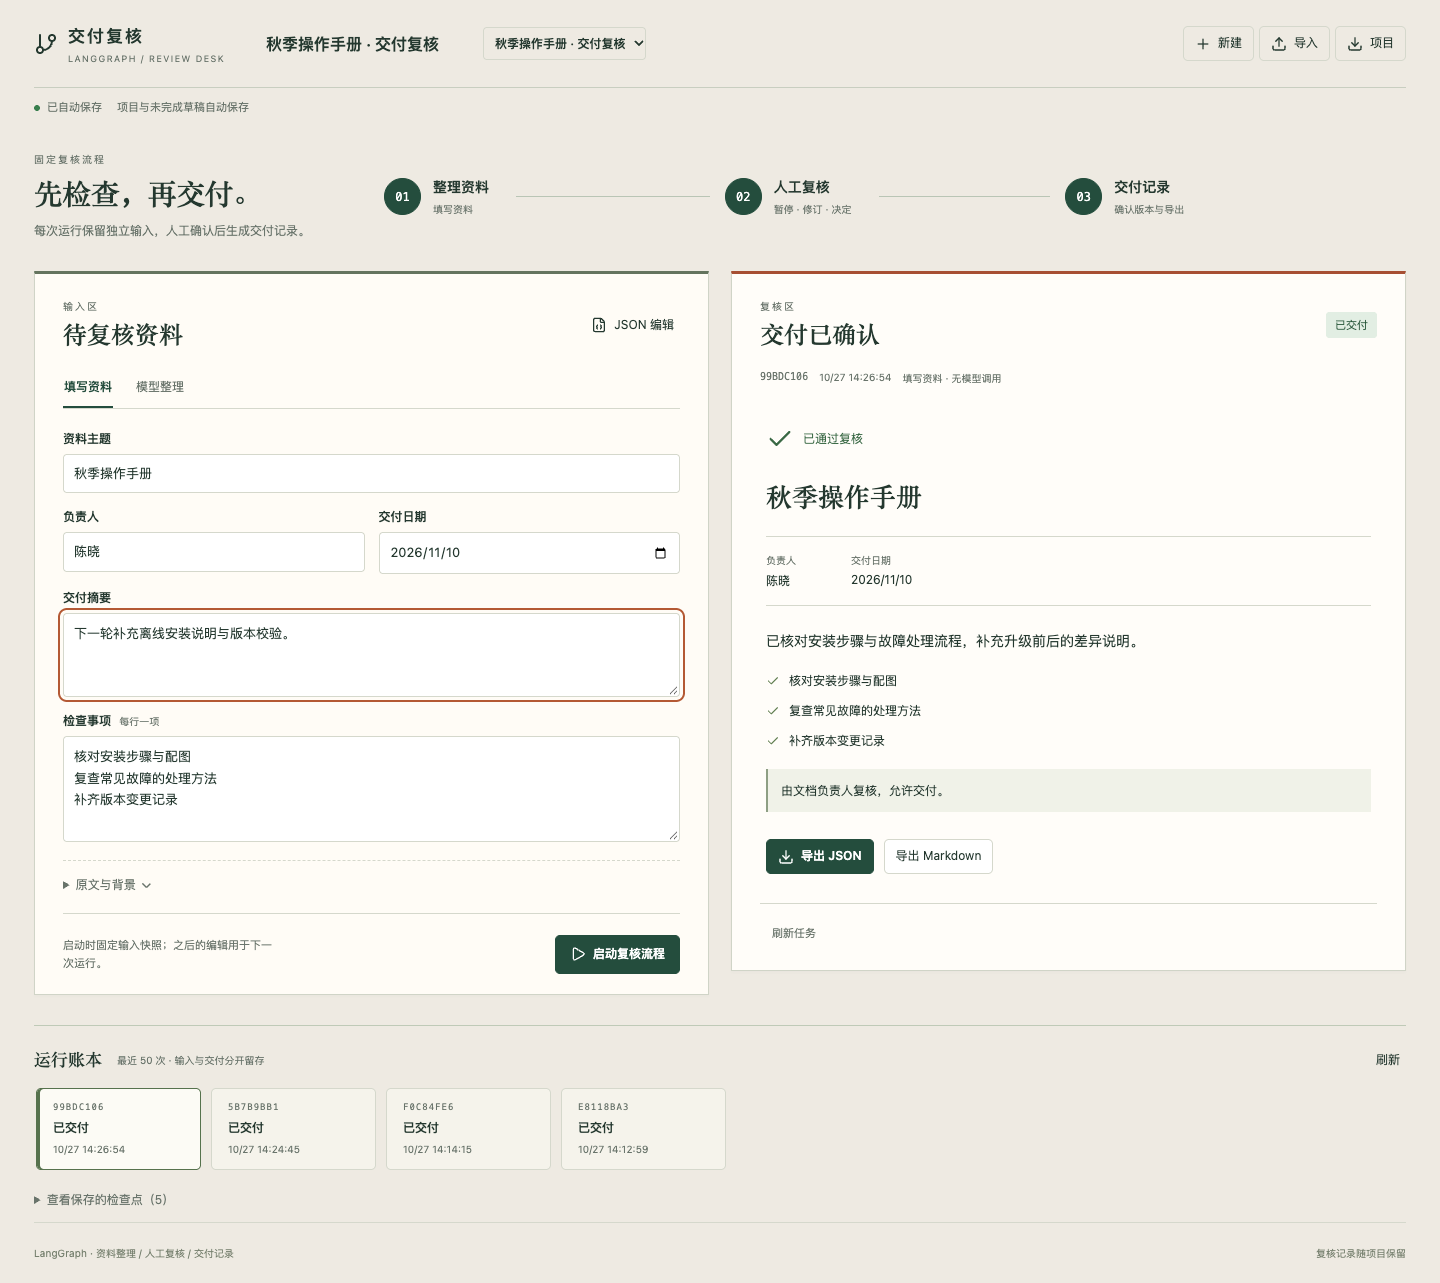
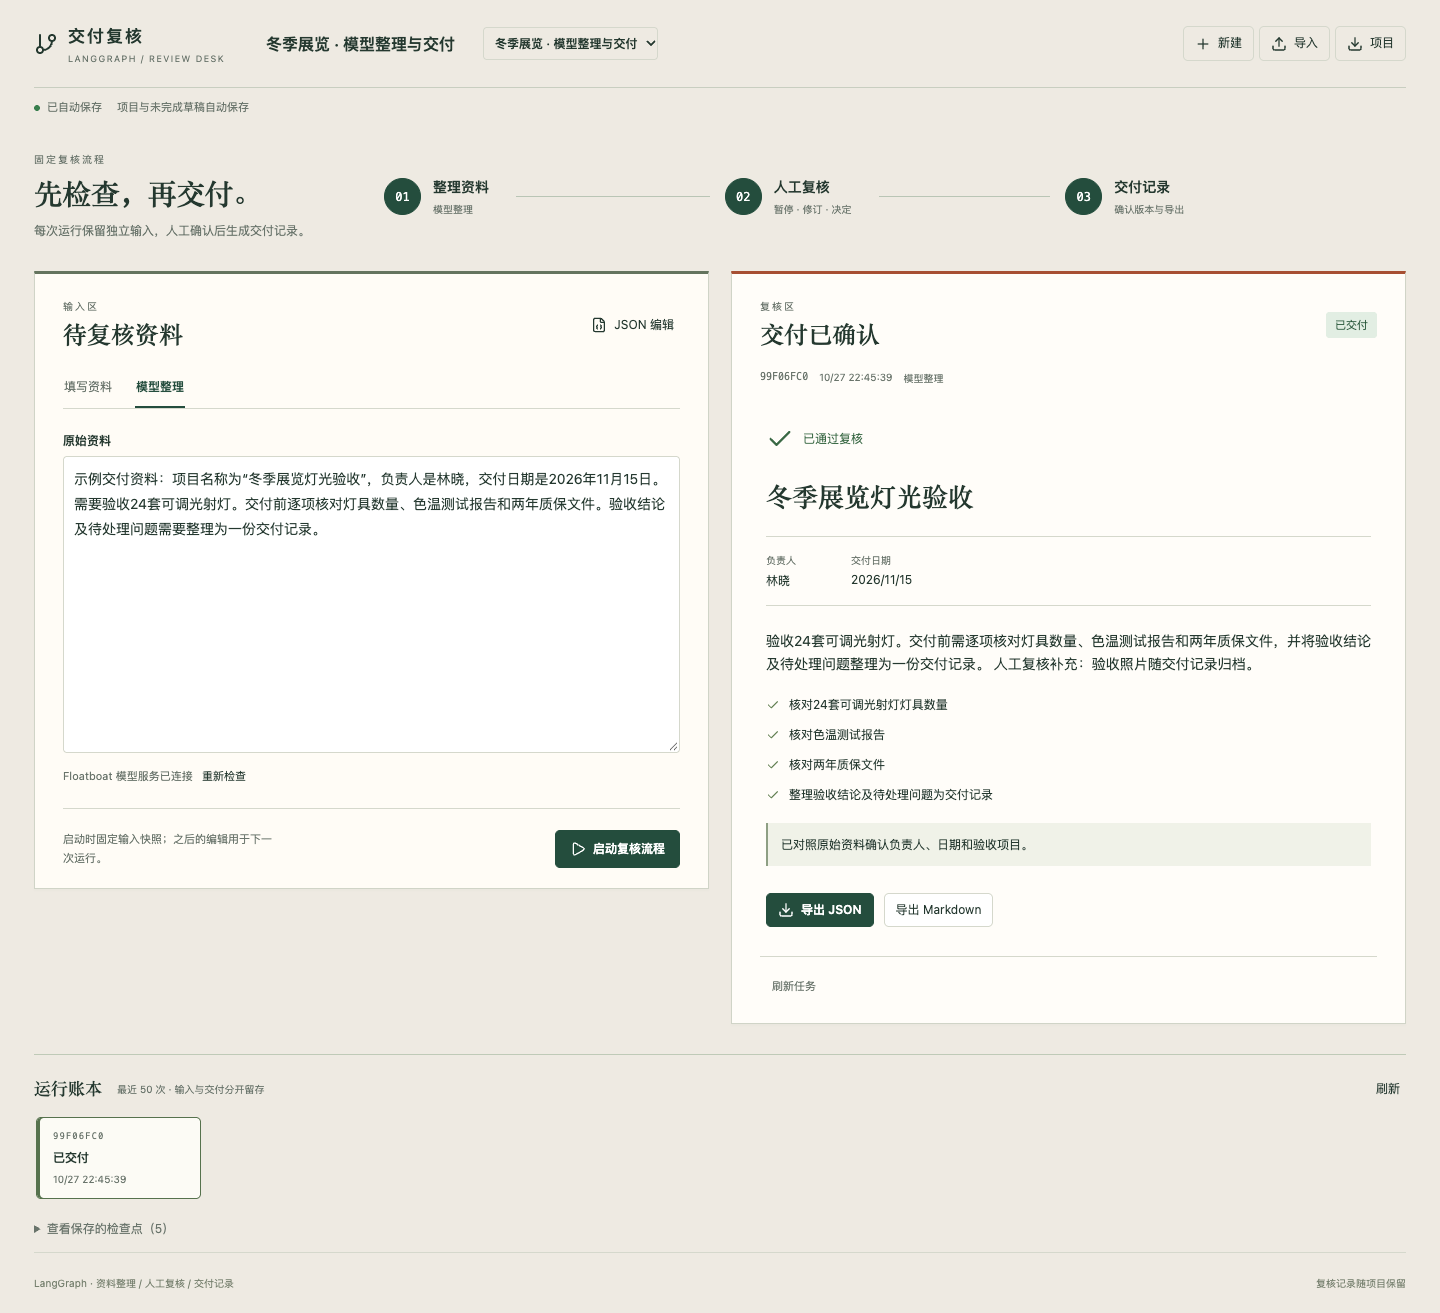
docs: record LangGraph Gemini 3.8 Host acceptance

diff --git a/README.md b/README.md
@@ -6,7 +6,7 @@
 
 ## 当前进度
 
-当前批次 **0.4.0** · **32 / 61 个工作台已完成本地功能验收**，其余29个为计划项目。新增6个AI工作台为0.4.0，既有26个保留0.3.0版本与验收记录。Floatboat客户端导入尚未实测。
+当前批次 **0.4.0** · **32 / 61 个工作台已完成本地功能验收**，其余29个为计划项目。新增6个AI工作台中，LangGraph已更新至0.4.1，其余5个为0.4.0，既有26个保留0.3.0版本与验收记录。Floatboat客户端导入尚未实测。
 
 本批在6个独立worktree分批并行实现。自动保存、未完成草稿、冲突与容量边界是共同验收项；界面按产品任务分别设计。AI引擎、模型和外部服务的验证范围单列在[0.4.0验收](docs/release-0.4.0.md)，配置方式见[AI服务说明](docs/ai-services.md)。
 
@@ -40,12 +40,14 @@
 | [OpenSheetMusicDisplay](workbenches/55-opensheetmusicdisplay/) | MusicXML/MXL 导入、谱面校审、批注及原件/SVG 导出 | 乐谱纸张与边注 |
 | [LangExtract](workbenches/56-langextract/) | 原文、JSONL证据定位、字段复核、人工修订与CSV/JSONL/项目导出 | 原文纸张与证据账本 |
 | [Docling](workbenches/57-docling/) | DoclingDocument结构树、文本/表格校订、顺序、JSON/Markdown/CSV与HTML连接器 | 结构轨、校样纸张与表格检查器 |
-| [LangGraph.js](workbenches/58-langgraph/) | 真实StateGraph、人工中断/恢复、SQLite检查点、交付与项目导出 | 三站复核流程与运行账本 |
+| [LangGraph.js](workbenches/58-langgraph/) | Gemini 3.8资料整理、真实StateGraph、人工复核、SQLite检查点与交付导出 | 三站复核流程与运行账本 |
 | [Promptfoo](workbenches/59-promptfoo/) | 真实评测结果矩阵、基线、人工复核、限定套件执行器与CSV/JSON导出 | 用例×版本矩阵与结果对照 |
 | [faster-whisper](workbenches/60-faster-whisper/) | 音频保存/回听、真实CPU转写、字幕时间编辑与SRT/VTT/完整项目导出 | 暗色波形、字幕行与任务队列 |
 | [Presenton](workbenches/61-presenton/) | 资料、大纲、页序、备注、审阅、便携稿与异步制作服务连接器 | 逐页缩略轨、演示舞台与资料简报 |
 
-本批统一验证：**6项构建、106项应用测试、14项独立服务测试、3项工具测试和6个源码包**通过。真实上游执行包含LangGraph流程恢复、Promptfoo回显评测、Docling HTML转换和faster-whisper英语CPU转写；其他模型/服务条件见发布验收。
+0.4.0批次统一验证：**6项构建、106项应用测试、14项独立服务测试、3项工具测试和6个源码包**通过。真实上游执行包含LangGraph流程恢复、Promptfoo回显评测、Docling HTML转换和faster-whisper英语CPU转写；其他模型/服务条件见发布验收。
+
+[LangGraph 0.4.1](docs/release-0.4.1.md) 默认使用 **Gemini 3.8 Flash**，已通过真实 Host 整理、人工复核、自动保存、交付及刷新恢复；17项应用测试通过，并补齐JSON代码块与日期格式兼容。其他独立AI服务的接入条件保持各项目说明。
 
 既有26项的构建、208项应用测试与源码包记录见[0.3.0验收](docs/release-0.3.0.md)，本批未重跑未修改的既有应用。历史批次：[0.2.0](docs/release-0.2.0.md)、[2–11](docs/batch-02-11.md)。
 

diff --git a/docs/ai-services.md b/docs/ai-services.md
@@ -6,7 +6,7 @@
 | --- | --- | --- | --- |
 | [LangExtract](../workbenches/56-langextract/README.md) | 文本/字段编辑、JSONL证据复核、修订与导出 | 独立Python LangExtract服务及模型提供方 | 真实库管线＋明确stub模型，非模型推理 |
 | [Docling](../workbenches/57-docling/README.md) | DoclingDocument JSON结构、文本和表格校订 | 官方Docling Serve；本版提交HTML | 真实Docling core的HTML转换与校订JSON回读；Serve live未测 |
-| [LangGraph.js](../workbenches/58-langgraph/README.md) | 填写资料、真实流程执行、人工暂停/恢复、交付记录 | 模型整理分支需要已连接Floatboat Host | 真实StateGraph/SQLite检查点及进程重启；Host成功调用未测 |
+| [LangGraph.js](../workbenches/58-langgraph/README.md) | 填写资料、真实流程执行、人工暂停/恢复、交付记录 | 模型整理分支需要已连接Floatboat Host | 真实StateGraph/SQLite检查点及进程重启；0.4.1已验证Gemini 3.8 Host完整流程 |
 | [Promptfoo](../workbenches/59-promptfoo/README.md) | 结果矩阵、基线比较、人工复核、原始结果/CSV | 独立Node执行器；模型模式另配提供方 | 真实Promptfoo evaluator回显评测，非模型质量评测 |
 | [faster-whisper](../workbenches/60-faster-whisper/README.md) | 音频保存/回听、字幕编辑和导出 | 独立Python推理服务及指定模型 | tiny.en CPU INT8真实转写，短英语录音完整链路 |
 | [Presenton](../workbenches/61-presenton/README.md) | 素材、大纲、逐页审阅和便携文稿 | 已部署Presenton服务、其API key与模型 | 接口合同与本地任务流程；真实生成/PPTX/PDF文件递送未测 |
@@ -27,7 +27,7 @@
 
 每个项目README给出精确依赖和启动方法。Presenton官方示例常用5001端口，同时运行Docling时应将其主机端口映射为5002并对应修改URL。远程地址使用HTTPS，来源/鉴权约束按各连接器校验。不要把模型key写进公开脚本、项目JSON或截图。
 
-LangGraph模型整理走真正的Host SDK，由Floatboat管理模型与凭据。本轮Host未连接；其他Python/HTTP服务不会因为Host有LLM能力就自动兼容它。LangExtract目前没有Host→Python provider bridge。
+LangGraph模型整理走真正的Host SDK，由Floatboat管理模型与凭据。0.4.1默认显式请求 `gemini-3.8-flash`，真实调用、人工复核、交付及刷新恢复已通过，见[0.4.1验收](release-0.4.1.md)。这是LangGraph的应用默认值；其他Python/HTTP服务仍独立配置。LangExtract目前没有Host→Python provider bridge。
 
 ## 保存与任务恢复
 

diff --git a/docs/release-0.4.1.md b/docs/release-0.4.1.md
@@ -1,0 +1,24 @@
+# LangGraph 0.4.1 · Gemini 3.8 与真实 Host 验收
+
+日期：2026-10-27（America/New_York）；实际模型流程完成于 2026-10-28T02:45:49Z。仅更新 LangGraph，仓库仍为32/61项完成本地验收，其他五个AI工作台保持0.4.0。
+
+## 行为变化
+
+LangGraph 模型整理默认请求 `gemini-3.8-flash`，由 Floatboat Host 处理路由与凭据。调用 Host `generateText` 后只接受完整 JSON 或单层完整 JSON 代码块，严格校验五个交付字段、日期、长度及正常结束状态；schema与提示明确YYYY-MM-DD日期。截断、额外文字、非法字段仍会失败并保留输入与运行，不自动回退模型或重复调用。
+
+已解决旧 Host `generateObject` 直接解析模型 Markdown 围栏而返回 `LLM_OBJECT_INVALID` 的问题。应用错误提示按连接、账号、权限与模型错误代码区分，不再把所有错误都归为未启动客户端。SDK、Host客户端及其全局默认模型设置没有改动。
+
+## 实际验证
+
+- 构建、类型与 **17项应用测试通过**，其中6项为模型输出及安全错误提示回归。
+- 真实 Host + Chrome：普通示例资料 → Gemini 3.8整理 → LangGraph人工中断 → 修改摘要与意见 → 自动保存 → 刷新恢复 → 通过并交付 → JSON导出 → 再次刷新保持交付。
+- 交付记录包含正确主题、负责人、日期和检查项，保留5个检查点，浏览器无pageerror。最新[截图](screenshots/langgraph.png)为真实模型完成后已保存的状态。
+- 源码包生成成功，CRC及源码/资源字节对应验证通过；保留上游许可证，排除预览数据和凭据。
+
+验证期间，Gemini 3.8曾返回非约定日期（随后明确输出schema与提示）；另一次请求返回`LLM_REQUEST_FAILED`，新建的独立验证运行成功。失败运行保留，没有自动重放。一次普通示例成功不等于上游稳定性或任意资料质量保证。模型ID在应用请求中显式指定，应用不持久化Host返回的模型元数据。
+
+详细过程与边界见[项目验收](../workbenches/58-langgraph/ACCEPTANCE.md)和[结构化证据](../workbenches/58-langgraph/host-acceptance-0.4.1.json)。Floatboat客户端源码包导入仍未实测；独立Python/HTTP服务仍按[AI服务说明](ai-services.md)配置。
+
+## 使用
+
+运行：`pnpm workbench dev langgraph`。导入：Floatboat → 我的 → 工作台 → 导入工作台，选择0.4.1的`.fbworkbench`文件。普通源码包不迁移开发预览的业务数据。

diff --git a/docs/release-0.4.0.md b/docs/release-0.4.0.md
@@ -4,6 +4,8 @@
 
 六个Git worktree分批并行，五个实现子代理与主线程分别负责产品；集成时另做独立只读审查和针对性修复。没有改动固定模板SDK、tooling或CSP。模板仍固定在 `3b55d46f7ae25e939ce3299073c37ed334d69c02`。
 
+后续更新：[LangGraph 0.4.1](release-0.4.1.md) 已完成真实 Host 模型验收，并默认使用 Gemini 3.8 Flash。以下表格与106项测试数字保留0.4.0发布时的记录。
+
 ## 检查结果
 
 主仓库完成 **6项构建、106项应用测试、14项独立服务测试、3项工具测试及6个源码包**。应用测试总数采用最终Presenton修复后的29项；主仓库整批检查后，对其修复重新检查、测试和打包。Docling的应用包版本也已对齐0.4.0并重新检查/打包。
@@ -40,7 +42,7 @@
 
 - **LangExtract**：真实模型提供方尚未配置/验证；可使用本地JSONL资料审校。没有Host→Python provider bridge。
 - **Docling**：本版上传HTML；校订DoclingDocument JSON。没有实现PDF/DOCX上传或预览、OCR和视觉模型；官方Serve live往返未验证。
-- **LangGraph**：填写资料模式实际执行核心库。Host模型分支已实现，当前Host断开，未取得真实成功输出。
+- **LangGraph**：填写资料模式实际执行核心库。0.4.0验收时Host断开，未取得真实成功输出；后续0.4.1已通过，见上方补丁记录。
 - **Promptfoo**：真实运行的是回显提供者及断言，不是模型效果测试。模型模式需要在独立执行器配置提供方。
 - **faster-whisper**：只验证tiny.en英语短录音、CPU INT8路线。其他语言/模型、GPU、长录音质量与容量不作已验证承诺。服务锁定PyAV16.0.1以匹配faster-whisper1.2.1。
 - **Presenton**：当前本地大纲与文稿流程可用。真实生成、上游PPTX/PDF渲染与文件递送需配置独立服务后验证；目前的HTTP fixture不代表真实文件生产链路。

diff --git a/docs/screenshots/README.md b/docs/screenshots/README.md
@@ -2,7 +2,7 @@
 
 真实Chrome运行界面，使用普通示例资料。图片为浏览器原生PNG，未合成界面或修改像素。采集日期：2026-10-27。
 
-既有26项保留历史采集版本；本批新增6项0.4.0界面。AI截图中的示例、真实引擎输出和未连接状态按项目验收记录区分。
+既有26项保留历史采集版本；本批新增6项AI界面，其中LangGraph更新为0.4.1真实模型交付与已保存状态，其余5项为0.4.0。AI截图中的示例、真实引擎输出和未连接状态按项目验收记录区分。
 
 | 图片 | 采集版本 | 原始尺寸 | 大小 | SHA-256 |
 | --- | --- | --- | --- | --- |
@@ -34,9 +34,9 @@
[8 lines of base64/hex data omitted]
 
-共32张，合计 4.26 MiB。
+共32张，合计 4.28 MiB。

diff --git a/docs/research/ai-workbench-candidates.md b/docs/research/ai-workbench-candidates.md
@@ -4,7 +4,7 @@
 
 **建议先验证 LangExtract、Docling、LangGraph.js、Promptfoo、faster-whisper、Presenton。** 它们分别产出可复核的记录、文档结构、可恢复流程、评测报告、字幕和课件，容易定义真实输入输出。随后根据服务条件增加 LightRAG、Langfuse、Kokoro 和 ComfyUI。
 
-**实现更新（0.4.0）**：LangExtract、Docling、LangGraph.js、Promptfoo、faster-whisper、Presenton 已完成本地功能验收；仓库为 **32 / 61 项**，其余26个AI候选仍为研究状态。模型与上游服务的真实执行范围、尚未验证项见[发布验收](../release-0.4.0.md)。下文保留初筛时的工作流与排序，不能据此扩大已实现范围。
+**实现更新（0.4.0）**：LangExtract、Docling、LangGraph.js、Promptfoo、faster-whisper、Presenton 已完成本地功能验收；仓库为 **32 / 61 项**，其余26个AI候选仍为研究状态。模型与上游服务的真实执行范围、尚未验证项见[发布验收](../release-0.4.0.md)。LangGraph现已更新至[0.4.1](../release-0.4.1.md)，默认Gemini 3.8并通过真实Host调用。下文保留初筛时的工作流与排序，不能据此扩大已实现范围。
 
 ## 下一批怎么排
 
